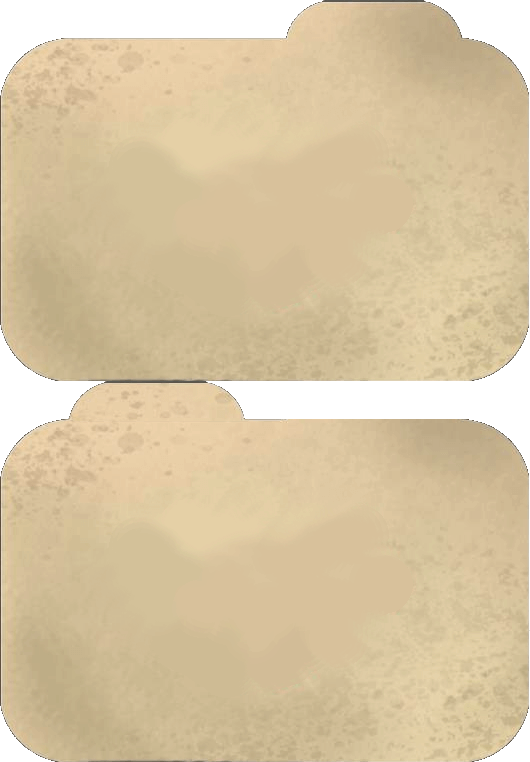
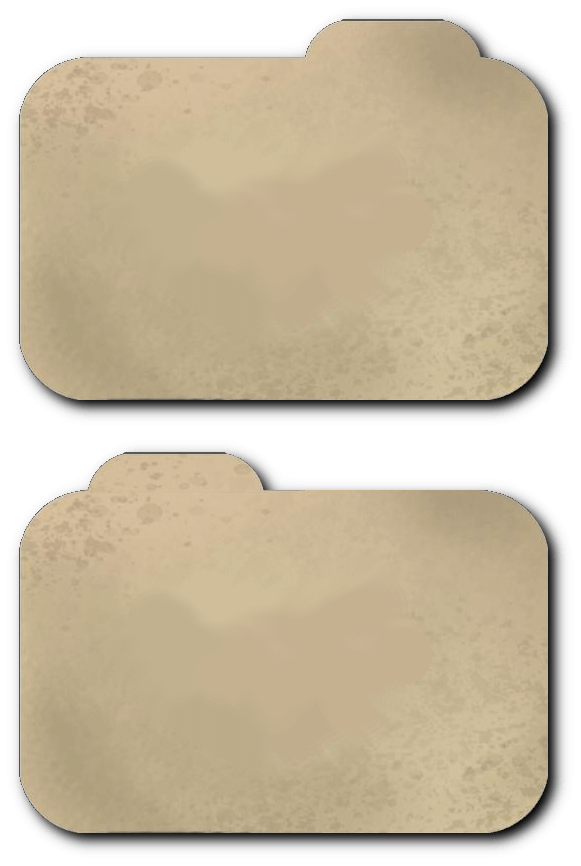
Contract Office board + contract setup.

diff --git a/barrage.css b/barrage.css
@@ -343,6 +343,12 @@ html {
         flex-wrap: wrap; }
         .action-board[data-id='bank'] .action-board-inner .action-board-row #bank-b.selected {
           background-color: #1a6210; }
+  .action-board[data-id='contract'] .action-board-inner #contract-stack-1,
+  .action-board[data-id='contract'] .action-board-inner #contract-stack-2,
+  .action-board[data-id='contract'] .action-board-inner #contract-stack-3,
+  .action-board[data-id='contract'] .action-board-inner #contract-stack-4 {
+    display: flex;
+    flex-wrap: wrap; }
   .action-board[data-id='contract'] .action-board-inner .action-board-row:nth-of-type(2) {
     margin-right: 35px; }
   .action-board[data-id='contract'] .action-board-inner .action-board-row .action-board-icon {
@@ -553,11 +559,12 @@ html {
 .action-board-icon .text {
   font-size: 0.9em;
   color: #8e1370;
-  font-weight: bold;
   text-shadow: #da94c8 1px 0px 0px, #da94c8 0.540302px 0.841471px 0px, #da94c8 -0.416147px 0.909297px 0px, #da94c8 -0.989993px 0.14112px 0px, #da94c8 -0.653644px -0.756803px 0px, #da94c8 0.283662px -0.958924px 0px, #da94c8 0.96017px -0.279416px 0px;
   font-family: 'acumin-pro', serif;
-  font-weight: 900;
-  font-style: normal; }
+  font-weight: 700;
+  font-style: normal;
+  line-height: 1em;
+  margin-top: -5px; }
 
 .icon-container {
   display: inline-block;
@@ -571,7 +578,7 @@ html {
   background-size: 100%; }
   .barrage-icon span {
     font-family: 'acumin-pro', serif;
-    font-weight: 800;
+    font-weight: 700;
     font-style: normal; }
   .barrage-icon.icon-production {
     min-width: 0.8em;
@@ -584,7 +591,7 @@ html {
     text-align: center; }
     .barrage-icon.icon-cost span, .barrage-icon.icon-credit span {
       font-size: 0.5em;
-      line-height: 1.5em;
+      line-height: 1.3em;
       color: #d70f0f; }
   .barrage-icon.icon-credit {
     min-width: 0.6125em;
@@ -595,7 +602,6 @@ html {
     height: 0.456em;
     background-image: url("img/icons/arrow.png"); }
   .barrage-icon.icon-water span, .barrage-icon.icon-water_down span, .barrage-icon.icon-rotate span, .barrage-icon.icon-excavator_icon span, .barrage-icon.icon-mixer_icon span, .barrage-icon.icon-any_machine span, .barrage-icon.icon-contract span, .barrage-icon.icon-vp span {
-    font-weight: bold;
     color: white;
     text-shadow: black 1px 0px 0px, black 0.540302px 0.841471px 0px, black -0.416147px 0.909297px 0px, black -0.989993px 0.14112px 0px, black -0.653644px -0.756803px 0px, black 0.283662px -0.958924px 0px, black 0.96017px -0.279416px 0px; }
   .barrage-icon.icon-water {
@@ -652,7 +658,7 @@ html {
       line-height: 1em; }
   .barrage-icon.icon-energy span, .barrage-icon.icon-conduit_x span {
     font-family: 'acumin-pro', serif;
-    font-weight: 800;
+    font-weight: 00;
     font-style: normal;
     color: #bb3f90;
     text-shadow: black 1px 0px 0px, black 0.540302px 0.841471px 0px, black -0.416147px 0.909297px 0px, black -0.989993px 0.14112px 0px, black -0.653644px -0.756803px 0px, black 0.283662px -0.958924px 0px, black 0.96017px -0.279416px 0px, white 0px 0px 8px; }
@@ -1613,12 +1619,12 @@ html {
   flex-wrap: wrap; }
 
 .barrage-contract {
-  width: 143px;
-  height: 104px;
+  width: 157px;
+  height: 117px;
   display: flex;
-  padding-top: 10px;
+  padding-top: 14px;
   box-sizing: border-box;
-  margin: 3px;
+  margin: -2px -6px -6px -2px;
   border: 2px solid transparent;
   border-radius: 20px;
   overflow: hidden;
@@ -1636,7 +1642,7 @@ html {
   .barrage-contract .energy-cost {
     width: 65px;
     margin-right: -10px;
-    height: 100%;
+    height: 90px;
     background: url("img/icons/energy.png");
     background-size: 102% auto;
     background-repeat: no-repeat;
@@ -1652,9 +1658,9 @@ html {
     text-shadow: black 1px 0px 0px, black 0.540302px 0.841471px 0px, black -0.416147px 0.909297px 0px, black -0.989993px 0.14112px 0px, black -0.653644px -0.756803px 0px, black 0.283662px -0.958924px 0px, black 0.96017px -0.279416px 0px, white 0px 0px 8px; }
   .barrage-contract .contract-reward {
     width: 84px;
-    height: 100%;
+    height: 90px;
     background: url("img/contract_types.png");
-    background-size: 500% 105%;
+    background-size: 500% 110%;
     background-position-y: 3px;
     background-repeat: no-repeat;
     padding: 14px 7px 4px;

diff --git a/modules/css/icons.scss b/modules/css/icons.scss
@@ -2,15 +2,16 @@
   .text {
     font-size: 0.9em;
     color: #8e1370;
-    font-weight: bold;
     text-shadow: rgb(218, 148, 200) 1px 0px 0px, rgb(218, 148, 200) 0.540302px 0.841471px 0px,
       rgb(218, 148, 200) -0.416147px 0.909297px 0px, rgb(218, 148, 200) -0.989993px 0.14112px 0px,
       rgb(218, 148, 200) -0.653644px -0.756803px 0px, rgb(218, 148, 200) 0.283662px -0.958924px 0px,
       rgb(218, 148, 200) 0.96017px -0.279416px 0px;
 
     font-family: 'acumin-pro', serif;
-    font-weight: 900;
+    font-weight: 700;
     font-style: normal;
+    line-height: 1em;
+    margin-top: -5px;
   }
 }
 
@@ -30,7 +31,7 @@
 
   span {
     font-family: 'acumin-pro', serif;
-    font-weight: 800;
+    font-weight: 700;
     font-style: normal;
   }
 
@@ -49,7 +50,7 @@
 
     span {
       font-size: 0.5em;
-      line-height: 1.5em;
+      line-height: 1.3em;
       color: #d70f0f;
     }
   }
@@ -74,7 +75,6 @@
   &.icon-contract,
   &.icon-vp {
     span {
-      font-weight: bold;
       color: white;
       text-shadow: rgb(0, 0, 0) 1px 0px 0px, rgb(0, 0, 0) 0.540302px 0.841471px 0px,
         rgb(0, 0, 0) -0.416147px 0.909297px 0px, rgb(0, 0, 0) -0.989993px 0.14112px 0px,
@@ -167,7 +167,7 @@
   &.icon-conduit_x {
     span {
       font-family: 'acumin-pro', serif;
-      font-weight: 800;
+      font-weight: 00;
       font-style: normal;
       color: #bb3f90;
       text-shadow: black 1px 0px 0px, black 0.540302px 0.841471px 0px, black -0.416147px 0.909297px 0px,

diff --git a/barrage.js b/barrage.js
@@ -284,10 +284,7 @@ define([
       // Place track
       let track = dojo.place('<div id="energy-track"></div>', 'energy-track-board');
       for (let i = 0; i < 32; i++) {
-        let slot = dojo.place(
-          `<div id='energy-track-${i}' class='energy-track-slot' data-i='${i}'></div>`,
-          track,
-        );
+        let slot = dojo.place(`<div id='energy-track-${i}' class='energy-track-slot' data-i='${i}'></div>`, track);
       }
     },
 
@@ -322,6 +319,10 @@ define([
     },
 
     tplActionBoardRow(row) {
+      if (typeof row === 'string' || row instanceof String) {
+        return `<div id='${row}'></div>`;
+      }
+
       let slots = row.map((slot) => {
         if (slot['i'] != undefined) {
           let id = this.registerCustomTooltip(_(slot.t));
@@ -558,6 +559,8 @@ define([
       } else if (contract.location.substr(0, 4) == 'hand') {
         let cId = contract.location.substr(5);
         return `company-contracts-${cId}`;
+      } else if ($(contract.location)) {
+        return $(contract.location);
       }
 
       console.error('Trying to get container of a contract', contract);

diff --git a/modules/css/contract.scss b/modules/css/contract.scss
@@ -4,12 +4,12 @@
 }
 
 .barrage-contract {
-  width: 143px;
-  height: 104px;
+  width: 157px;
+  height: 117px;
   display: flex;
-  padding-top: 10px;
+  padding-top: 14px;
   box-sizing: border-box;
-  margin: 3px;
+  margin: -2px -6px -6px -2px;
   border: 2px solid transparent;
   border-radius: 20px;
   overflow: hidden;
@@ -35,7 +35,7 @@
   .energy-cost {
     width: 65px;
     margin-right: -10px;
-    height: 100%;
+    height: 90px;
     background: url('img/icons/energy.png');
     background-size: 102% auto;
     background-repeat: no-repeat;
@@ -56,9 +56,9 @@
 
   .contract-reward {
     width: 84px;
-    height: 100%;
+    height: 90px;
     background: url('img/contract_types.png');
-    background-size: 500% 105%;
+    background-size: 500% 110%;
     background-position-y: 3px;
     background-repeat: no-repeat;
     padding: 14px 7px 4px;

diff --git a/modules/css/layout.scss b/modules/css/layout.scss
@@ -374,14 +374,24 @@
     }
   }
 
-  &[data-id='contract'] .action-board-inner .action-board-row {
-    &:nth-of-type(2) {
-      margin-right: 35px;
+  &[data-id='contract'] .action-board-inner {
+    #contract-stack-1,
+    #contract-stack-2,
+    #contract-stack-3,
+    #contract-stack-4 {
+      display: flex;
+      flex-wrap: wrap;
     }
 
-    .action-board-icon {
-      width: 110px;
-      margin: 0px 8px;
+    .action-board-row {
+      &:nth-of-type(2) {
+        margin-right: 35px;
+      }
+
+      .action-board-icon {
+        width: 110px;
+        margin: 0px 8px;
+      }
     }
   }
 }

diff --git a/modules/php/Managers/Contracts.php b/modules/php/Managers/Contracts.php
@@ -29,6 +29,7 @@ class Contracts extends \BRG\Helpers\Pieces
   /* Creation of various contracts */
   public static function setupNewGame()
   {
+    // Create them
     $contracts = [];
     foreach (self::getContracts() as $id => $contract) {
       $contracts[] = [
@@ -39,6 +40,23 @@ class Contracts extends \BRG\Helpers\Pieces
     }
 
     self::create($contracts);
+
+    // Draw national contracts
+    $n = Players::count() - 1;
+    $nationals = self::getSelectQuery()
+      ->where('type', 1)
+      ->get()
+      ->getIds();
+    self::move(Utils::rand($nationals, $n), 'contract-stack-1');
+
+    // Draw green/yellow/red
+    for ($i = 2; $i < 5; $i++) {
+      $contracts = self::getSelectQuery()
+        ->where('type', $i)
+        ->get()
+        ->getIds();
+      self::move(Utils::rand($contracts, 2), 'contract-stack-' . $i);
+    }
   }
 
   public function randomStartingPick($nPlayers)

diff --git a/modules/php/ActionBoards/AbstractActionBoard.php b/modules/php/ActionBoards/AbstractActionBoard.php
@@ -61,14 +61,16 @@ abstract class AbstractActionBoard
 
     $structure = static::getUiStructure();
     foreach ($structure as &$row) {
-      foreach ($row as $i => $elem) {
-        if (is_array($elem)) {
-          continue;
-        }
+      if (is_array($row)) {
+        foreach ($row as $i => $elem) {
+          if (is_array($elem)) {
+            continue;
+          }
 
-        $key = static::$id . '-' . $elem;
-        if (\array_key_exists($key, $spaces)) {
-          $row[$i] = $spaces[$key];
+          $key = static::$id . '-' . $elem;
+          if (\array_key_exists($key, $spaces)) {
+            $row[$i] = $spaces[$key];
+          }
         }
       }
     }

diff --git a/modules/php/ActionBoards/ContractActionBoard.php b/modules/php/ActionBoards/ContractActionBoard.php
@@ -23,7 +23,7 @@ class ContractActionBoard extends AbstractActionBoard
   {
     $rows = [];
 
-    $rows[] = [];
+    $rows[] = 'contract-stack-1';
 
     $rows[] = [
       'o',
@@ -47,6 +47,10 @@ class ContractActionBoard extends AbstractActionBoard
       ],
       'tbis',
     ];
+
+    $rows[] = 'contract-stack-2';
+    $rows[] = 'contract-stack-3';
+    $rows[] = 'contract-stack-4';
 
     return $rows;
   }
